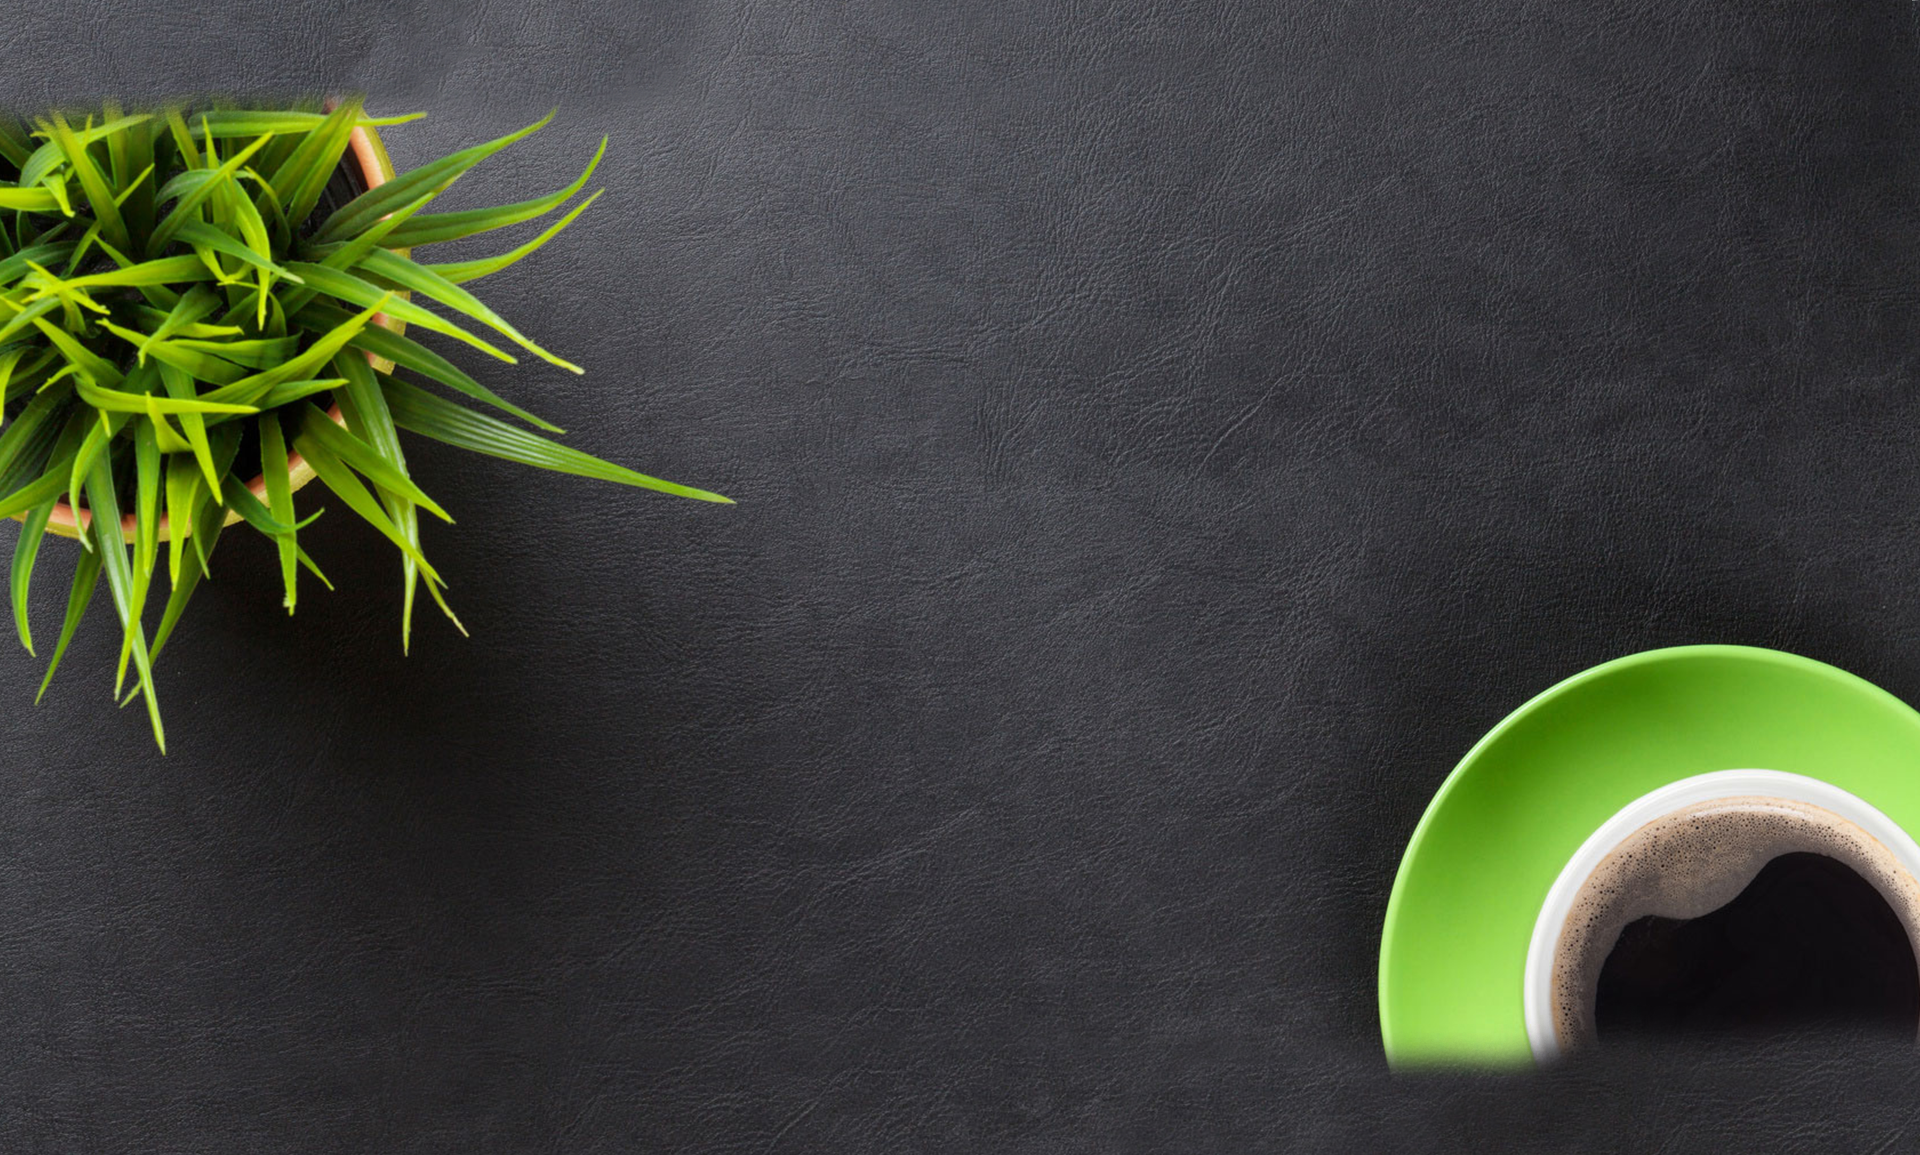
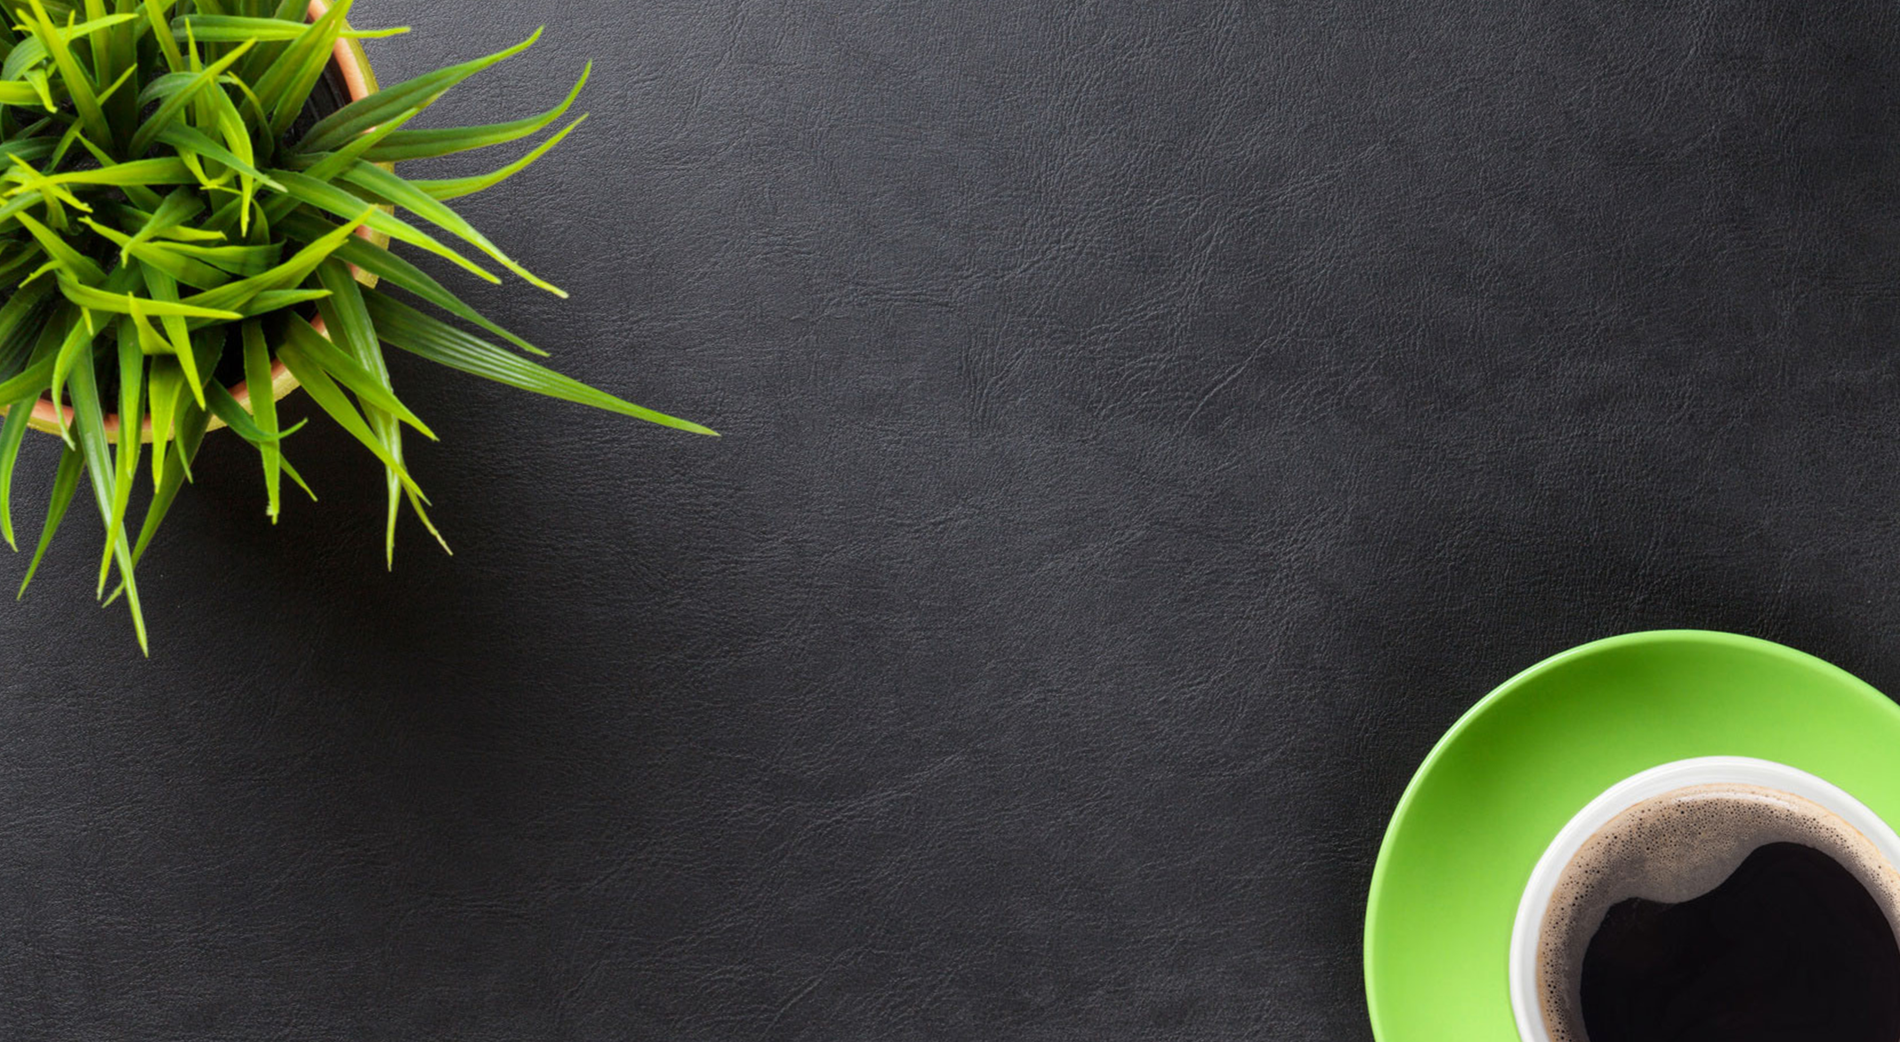
update

diff --git a/index.html b/index.html
@@ -11,7 +11,7 @@
     <script src="https://ajax.googleapis.com/ajax/libs/jquery/3.5.1/jquery.min.js"></script>
 
     <link rel="stylesheet" href="https://pro.fontawesome.com/releases/v5.10.1/css/all.css">
-
+    <link href="https://fonts.googleapis.com/css2?family=Raleway:wght@500&display=swap" rel="stylesheet">
 
 
 </head>
@@ -249,6 +249,43 @@
    =================================================================================
    -->
     <section class="testimonial">
+        <div class="ts-vln">
+
+            <!--icon top bottom-->
+            <button class="btn-up" style=""><i class="upp fas fa-chevron-circle-up"></i></button>
+            <button class="btn-down" style=""><i class="upp fas fa-chevron-circle-down"></i></button>
+
+            <!--block logo-->
+            <div class="block-ln">
+                <div class="block block-1">
+                    <img src="./img/testimonial/people/1.png" alt="">
+                </div>
+                <div class="block block-2">
+                    <img src="./img/testimonial/people/2.png" alt="">
+                    <div class="os-content-right">
+                        <div class="os-c-p">
+                            <h3>Mahadi Tahsan</h3>
+                            <h4 class="ratting">
+                            <i class="ratting-c fas fa-star"></i>
+                            <i class="ratting-c fas fa-star"></i>
+                            <i class="ratting-c fas fa-star"></i>
+                            <i class="ratting-c fas fa-star"></i>
+                            <i class="fas fa-star-half"></i>
+                            </h4>
+                            <h4>Chairman/CEO</h4>
+                            <p>Lorem Ipsum is simply dummy text oftheg and typesetting industry. Loremumhaseen the industry's standardmy text ever since the 1500s.</p>
+                        </div>
+                    </div>
+                </div>
+                <div class="block block-3">
+                    <img src="./img/testimonial/people/3.png" alt="">
+                </div>
+            </div>
+        </div>
+
+
+
+
 
         <!----------------------------------------------svg---------------------------------->
         <svg version="1.1" id="Layer_3" xmlns="http://www.w3.org/2000/svg" xmlns:xlink="http://www.w3.org/1999/xlink" x="0px" y="0px" viewBox="0 0 1920 100" enable-background="new 0 0 1920 100" xml:space="preserve">

diff --git a/css/style2.css b/css/style2.css
@@ -70,8 +70,8 @@ svg#Layer_3 {
 body,
 .menu-section,
 .slider-section {
-    width: 1920px;
-    //width: 100%;
+    //width: 1920px;
+    width: 100%;
 }
 body{
     
@@ -512,7 +512,7 @@ nav ul li:hover a {
     position: relative;
 }
 /*------------top bottom icon---------*/
-.vln .btn-up{
+.btn-up{
     background: black; 
     border-radius: 50%;
     border: none; 
@@ -521,7 +521,7 @@ nav ul li:hover a {
     left: 50%;
     transform: translate(-50%,-50%);
 }
-.vln .btn-down{
+.btn-down{
     background: black; 
     border-radius: 50%;
     border: none; 
@@ -530,12 +530,12 @@ nav ul li:hover a {
     left: 0;
     transform: translate(-50%,-50%);
 }
-.vln .upp{
+.upp{
    color: white;
     font-weight: normal;
      font-size: 30pt;
 }
-.vln .upp:hover{
+.upp:hover{
    color: #FEC600;
 }
 /*-----block-------*/
@@ -646,7 +646,7 @@ nav ul li:hover a {
    =================================================================================
 */
 .testimonial {
-    height: 500px;
+    height: 950px;
     //height: 100vh;
     background: rgba(0, 0, 0, 0.5);
     background-image: url(../img/testimonial/hard-work-with-a-book-picjumbo-com.png);
@@ -654,9 +654,50 @@ nav ul li:hover a {
     background-size: cover;
     //background-size: 100%;
     background-blend-mode: overlay;
+    padding-top: 190px;
+    padding-bottom: 190px;
+    padding-left: 440px;
 }
+.testimonial .os-content-right{
+    background: none;
+    float: left;
+    background-image: url(../img/testimonial/Shape.png);
+    background-repeat: no-repeat;
+    width: 585px;
+    height: 341px;
+}
+.ts-vln .os-content-right h3{
+    font-size: 20pt;
+    font-weight: 500;
+    font-family: 'Raleway', sans-serif;
+}
+.ts-vln .os-content-right h4{
+    font-size: 16pt;
+    font-family: 'Raleway', sans-serif;
+    font-weight: normal;
 }
 
+.ts-vln .os-content-right p{
+    margin-top: 30px;
+}
+.ratting{
+    color: #FEC600;
+}
+.ts-vln{
+    border-right: 1px dashed black;
+    width: 0;
+    height: 100%;
+    position: relative;
+}
+.testimonial .ts-vln .block{
+    background: white;
+}
+.testimonial .ts-vln .block:hover{
+    background: #FEC600;
+}
+.testimonial .ts-vln .block img{
+    width: 100%;
+}
 /*
    =================================================================================
                                        pricing-plan-section
